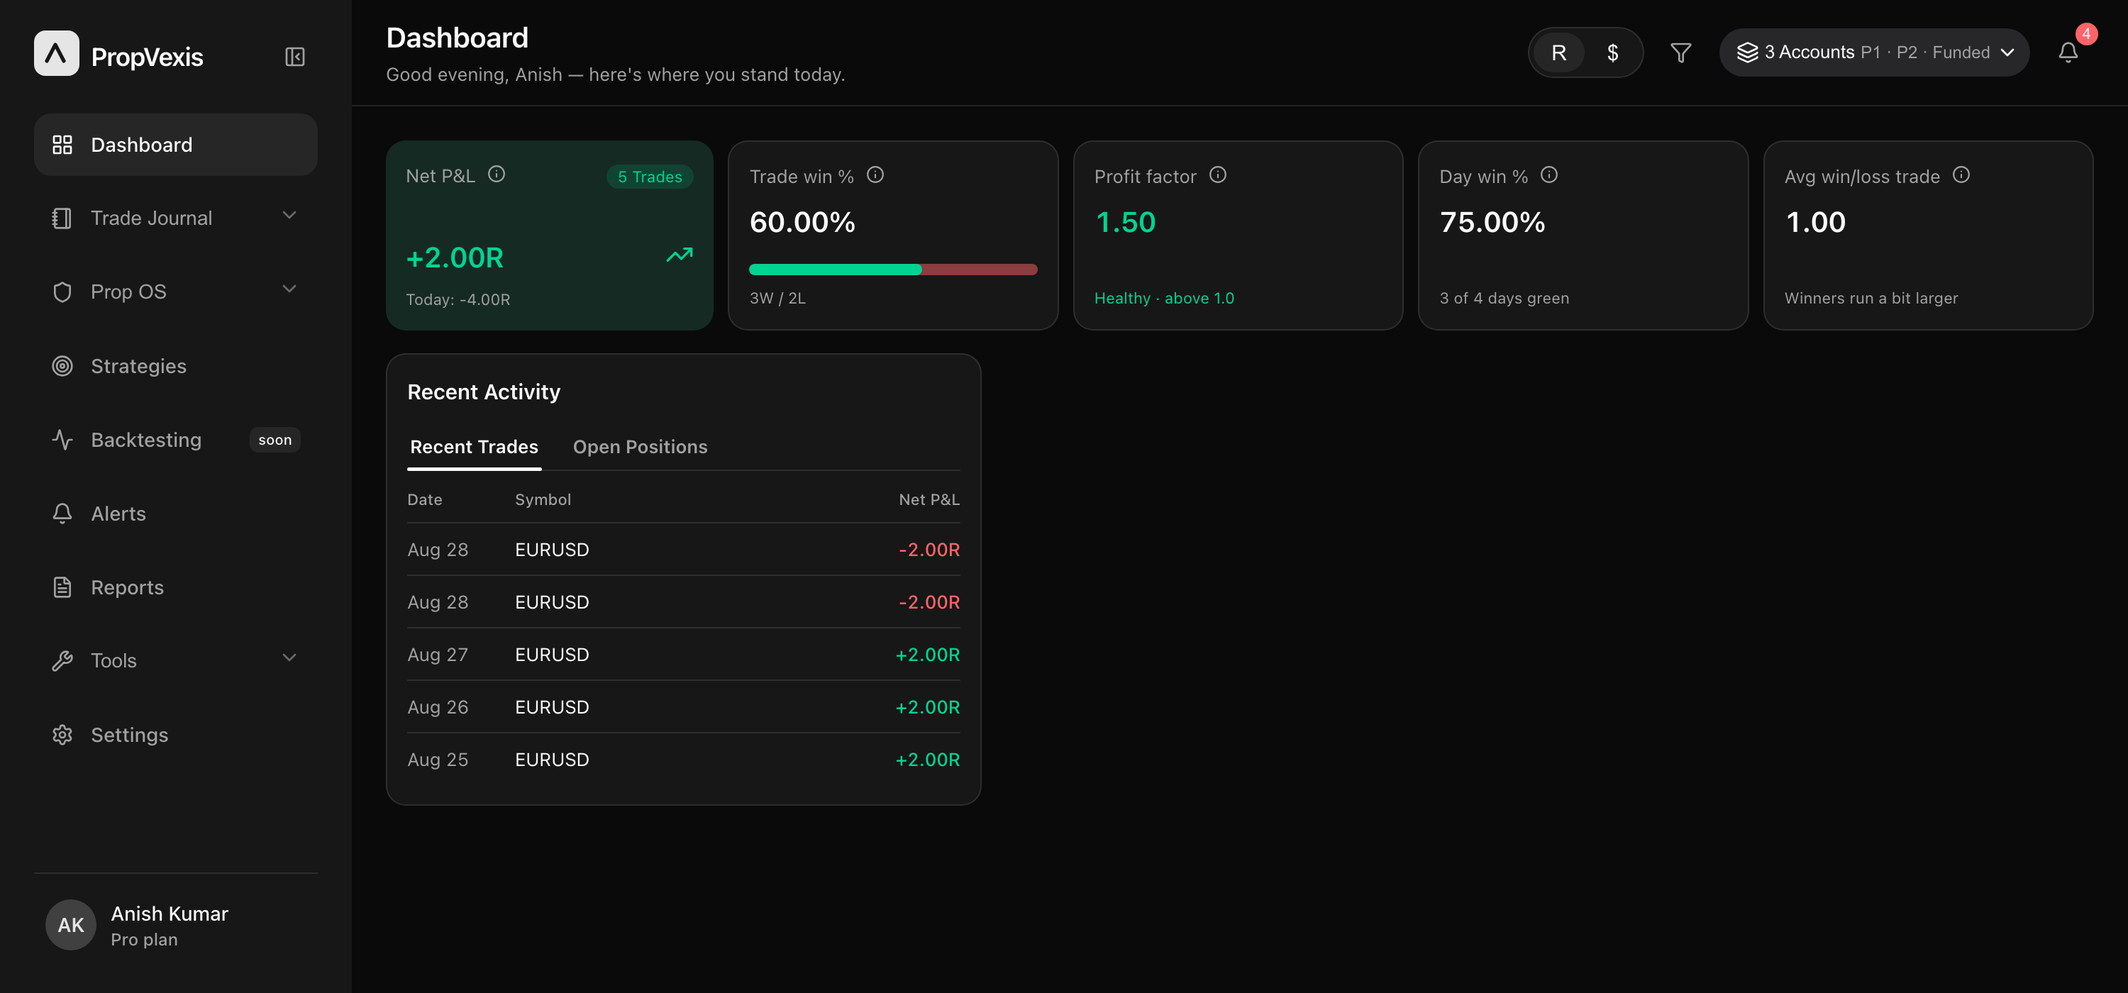
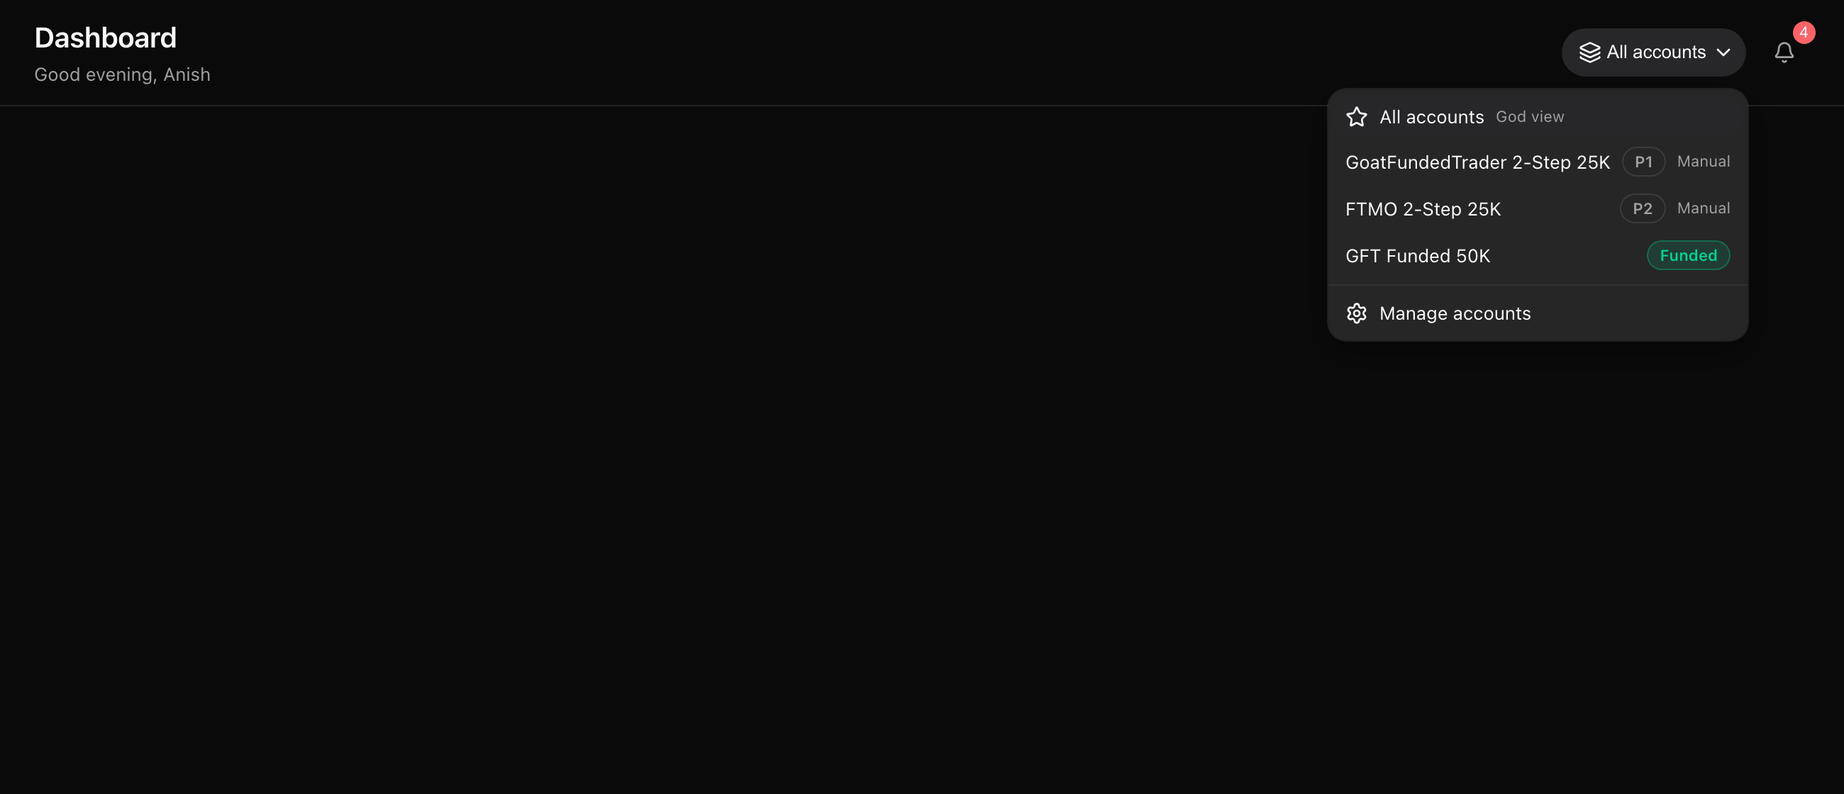
Top bar follow-ups: scope leads, richer menus, and the last of the blue
1. THE SCOPE SWITCHER LEADS THE CLUSTER. It is the only control in the bar that
changes what every figure on the page MEANS -- the unit toggle changes how they
are written and Filters narrows which rows feed them, but the scope decides whose
numbers these are. Reading order is left to right, so "whose account am I looking
at" should not be the fourth thing found.

2. THE SWITCHER'S ROWS SAY WHAT AN ACCOUNT IS. They read a label and then either
"Manual" or a five-digit login -- the login is the least useful thing about an
account you are choosing by NAME, and "Manual" describes how trades arrive rather
than what the account is. The phase is the badge now (P1 / P2 / Funded, green when
funded), on the shared Badge primitive so it matches Prop OS; the connection kind
stays as quiet text only for the manual case, where it explains why there is no
live balance.

I read @coss/combobox first, as the build order asks. It is a 15 KB searchable
single-select with chips, its own input and a scroll-area. This control is a
MULTI-select with god-view semantics, a single-select mode on two routes and a
pending-accounts footer, all tested -- adopting it would trade working behaviour
for a trigger we can simply draw. Recorded in the file so the next person does not
re-open the question.

3. THE FILTER PANEL OPENS AS ONE PANEL, NOT TWO. With no filters set it drew a
small panel holding a title and a single "+ Add filter" row, with the picker
[…]

diff --git a/frontend/src/features/filters/FilterBar.jsx b/frontend/src/features/filters/FilterBar.jsx
@@ -23,7 +23,7 @@ import FilterPanel from './FilterPanel.jsx';
 // may not originate visual values (pinned by topbar-overlays.test.js), so what stays
 // here is geometry the preset has no opinion about — a width cap, a truncation.
 import {
-  Button, CountBadge,
+  Badge, Button, CountBadge,
   Menu, MenuCheckboxItem, MenuContent, MenuGroupLabel, MenuItem,
   MenuSeparator, MenuTrigger, Popover, PopoverContent, PopoverTrigger,
   ToggleGroupExclusive, ToggleGroupItem,
@@ -158,10 +158,23 @@ function AccountSwitcher({ accounts = [], accountId, setAccountId, singleSelect 
             All accounts <span className="acct-opt-sub">God view</span>
           </MenuItem>
           {bound.map((a) => {
+            /* A ROW THAT SAYS WHAT THE ACCOUNT IS (2026-08-28). It used to read a label
+               and then either "Manual" or a five-digit login — the login is the least
+               useful thing about an account you are choosing BY NAME, and "Manual" is
+               how trades arrive, not what the account is.
+               What a trader picks by is the phase, so that is the badge; the connection
+               kind stays as quiet text for the manual case, where it does explain why
+               there is no live balance. Uses the Badge primitive rather than a fourth
+               hand-styled span, so it matches the phase badges in Prop OS. */
             const row = (
               <>
                 <span className="acct-opt-name">{acctLabel(a)}</span>
-                <span className="acct-opt-sub">{a.kind === 'manual' ? 'Manual' : a.mt5_login}</span>
+                {PHASE_TAG[a.phase] && (
+                  <Badge tone={a.phase === 'funded' ? 'profit' : 'neutral'}>
+                    {PHASE_TAG[a.phase]}
+                  </Badge>
+                )}
+                {a.kind === 'manual' && <span className="acct-opt-sub">Manual</span>}
               </>
             );
             return singleSelect ? (
@@ -320,12 +333,15 @@ export default function FilterBar({
    * and the same sentence over the Trade Log would be noise. `/` is the only route that
    * gets it.
    *
-   * Time of day is computed from the local clock rather than stored, and it is
-   * deliberately coarse — three bands, no "good night". A greeting that tells someone
-   * it is late is a judgement, and this app already has enough opinions about when they
-   * should stop trading. */
+   * JUST THE GREETING (owner, 2026-08-28). It ended "— here's where you stand today.",
+   * the frame's copy, which is a sentence explaining what a dashboard is to someone who
+   * opens it every morning. The half worth keeping is the half about THEM.
+   *
+   * Time of day comes from the local clock and is deliberately coarse — three bands, no
+   * "good night". A greeting that remarks on the hour is a judgement, and this app has
+   * enough opinions about when someone should stop trading. */
   const greeting = pathname === '/' && user?.name
-    ? `${timeOfDay()}, ${user.name.trim().split(/\s+/)[0]} — here's where you stand today.`
+    ? `${timeOfDay()}, ${user.name.trim().split(/\s+/)[0]}`
     : null;
 
   return (
@@ -360,17 +376,22 @@ export default function FilterBar({
         {/* The frame wraps the two segments in a bordered capsule rather than letting
             them float; `pill` on the group is what makes the container read as one
             control with two states instead of two adjacent buttons. */}
-        <ToggleGroupExclusive value={unit} onValueChange={setUnit} aria-label="Display unit" pill>
-          <ToggleGroupItem value="R" size="sm">R</ToggleGroupItem>
-          <ToggleGroupItem value="USD" size="sm">$</ToggleGroupItem>
-        </ToggleGroupExclusive>
-        <FiltersButton options={options} filters={filters} patchFilters={patchFilters} clearFilters={clearFilters} active={active} />
+        {/* THE SCOPE LEADS THE CLUSTER (2026-08-28, owner call). It is the only control
+            here that changes what every figure on the page MEANS: the unit toggle changes
+            how they are written, Filters narrows which rows feed them, but the account
+            scope decides whose numbers these are. Reading order is left to right, so
+            "whose account am I looking at" should not be the fourth thing found. */}
         <AccountSwitcher
           accounts={accounts}
           accountId={accountId}
           setAccountId={setAccountId}
           singleSelect={singleAccount}
         />
+        <ToggleGroupExclusive value={unit} onValueChange={setUnit} aria-label="Display unit" pill>
+          <ToggleGroupItem value="R" size="sm">R</ToggleGroupItem>
+          <ToggleGroupItem value="USD" size="sm">$</ToggleGroupItem>
+        </ToggleGroupExclusive>
+        <FiltersButton options={options} filters={filters} patchFilters={patchFilters} clearFilters={clearFilters} active={active} />
         <NotificationBell inline notifications={notifications} unread={unread} onMarkAllRead={onMarkAllRead} />
         {/* NO AVATAR MENU HERE (2026-08-28, owner call). The rail's footer already
             carries the identity row — name, plan and a link to the profile — so a second

diff --git a/frontend/src/features/alerts/Notifications.jsx b/frontend/src/features/alerts/Notifications.jsx
@@ -1,12 +1,15 @@
 import React from 'react';
-import { Bell } from 'lucide-react';
+import { AlertCircle, AlertTriangle, Bell, Sparkles } from 'lucide-react';
 // PHASE 4b — the bell's feed is a Popover on Base UI.
 // PHASE 4c — the BELL is a generated Button and `.notif-bell` / `.notif-badge` are
 // deleted. 4b moved behaviour only, and legacy CSS is unlayered, so the trigger kept
 // painting itself the old way no matter what the preset emitted.
 // `.notif-panel` is untouched: the feed's own appearance is a separate module and the
 // migration plan's rule is wholesale-or-not-at-all per module.
-import { Button, CountBadge, Popover, PopoverContent, PopoverTrigger } from '@/components/primitives';
+import { Link } from 'react-router-dom';
+import {
+  Button, CountBadge, EmptyState, Popover, PopoverContent, PopoverTrigger,
+} from '@/components/primitives';
 
 // In-app alert UI: a header bell with an unread badge + a dropdown feed, and a
 // transient toast stack for alerts that arrive live over the socket. Severity
@@ -27,10 +30,26 @@ export function timeAgo(iso) {
 // interaction rather than arrow-keying between alerts. The primitive supplies the
 // Escape, the focus return and the aria-expanded the hand-rolled version never had —
 // the bell's own aria-label, which carries the unread count, is unchanged.
-export function NotificationBell({ notifications = [], unread = 0, onMarkAllRead, inline = false }) {
+/* One glyph per severity — the same three the dashboard's Brief uses, so a breach looks
+ * like a breach in both places. Kept beside `sevClass` rather than imported from the
+ * Dashboard, because the direction of dependency matters: alerts are the source of this
+ * vocabulary and the Brief is a second surface for it, not the other way round. */
+const SEV_ICON = { crit: AlertCircle, warn: AlertTriangle, info: Sparkles };
+
+function SevGlyph({ severity }) {
+  const Icon = SEV_ICON[sevClass(severity)] || Sparkles;
+  return <Icon aria-hidden="true" />;
+}
+
+/* `defaultOpen` exists for the gitignored visual harness (frontend/.preview.jsx), which
+ * is the only way to SEE this panel — there is no jsdom here, and the alternative is
+ * screenshotting a click. It defaults false, so nothing in the app opens on mount. */
+export function NotificationBell({
+  notifications = [], unread = 0, onMarkAllRead, inline = false, defaultOpen = false,
+}) {
   return (
     <div className={`notif ${inline ? 'notif-inline' : ''}`}>
-      <Popover>
+      <Popover defaultOpen={defaultOpen}>
         {/* `variant="chrome"` at `size="icon-sm"` is the whole of what `.notif-bell`
             and its `.notif-inline` override used to draw between them. `tone="alert"`
             is why the pill is red: an unread count reports a condition rather than a
@@ -58,10 +77,19 @@ export function NotificationBell({ notifications = [], unread = 0, onMarkAllRead
           </div>
           <div className="notif-list">
             {notifications.length === 0 ? (
-              <div className="notif-empty">You're all caught up.</div>
+              <EmptyState
+                title="You're all caught up"
+                description="Breaches, drawdown warnings and milestones land here as they happen."
+              />
             ) : notifications.map((n) => (
               <div key={n.id} className={`notif-item ${sevClass(n.severity)} ${n.read_at ? '' : 'unread'}`}>
-                <span className="notif-dot" aria-hidden="true" />
+                {/* THE SAME GLYPH THE BRIEF USES for this severity, not a bare dot.
+                    A triangle for a warning and a filled circle for a breach are
+                    recognisable before they are read, they survive a greyscale screen,
+                    and — the reason it matters here — a trader who has just seen
+                    "challenge breached" in Today's Brief meets the identical mark in
+                    this panel rather than a colour they have to re-learn. */}
+                <span className="notif-glyph" aria-hidden="true"><SevGlyph severity={n.severity} /></span>
                 <div className="notif-body">
                   <div className="notif-title">{n.title}</div>
                   {n.body && <div className="notif-text">{n.body}</div>}
@@ -69,6 +97,12 @@ export function NotificationBell({ notifications = [], unread = 0, onMarkAllRead
                 </div>
               </div>
             ))}
+          </div>
+          {/* A WAY OUT OF A PANEL THAT ONLY EVER SHOWS THE LATEST FEW. The feed is
+              capped, so without this the older alerts were unreachable from the one
+              place a trader goes looking for them. */}
+          <div className="notif-foot">
+            <Link to="/alerts">View all alerts</Link>
           </div>
         </PopoverContent>
       </Popover>

diff --git a/frontend/src/styles/legacy/app.css b/frontend/src/styles/legacy/app.css
@@ -2382,12 +2382,40 @@ label.full { margin-bottom: 16px; }
    fixed head — `overflow: hidden` here is what clips the rows to the rounded corners. */
 .notif-panel { width: 340px; max-height: 70vh; overflow: hidden; display: flex; flex-direction: column; }
 .notif-head { display: flex; justify-content: space-between; align-items: center; padding: 12px 16px; border-bottom: 1px solid var(--line); font-weight: 400; }
-.notif-markall { background: transparent; border: none; color: var(--status-info); font-size: 12px; cursor: pointer; }
+/* NEUTRAL, NOT BLUE (2026-08-28). It drew in --status-info and was the last blue left
+   in the chrome after the chart line and the tab indicator went neutral — one saturated
+   link in a panel of red, amber and green, where those three all MEAN something and it
+   does not. It is an action on the panel, so it reads like one: muted until hovered. */
+.notif-markall {
+  background: transparent; border: none; color: var(--text-2); font-size: 12px;
+  cursor: pointer; border-radius: var(--r-md); padding: 2px 6px;
+  transition: color var(--dur-fast) var(--ease);
+}
+.notif-markall:hover { color: var(--text); }
 .notif-list { overflow-y: auto; }
 .notif-empty { padding: 32px 16px; text-align: center; color: var(--muted); font-size: 13px; }
 .notif-item { display: flex; gap: 12px; padding: 12px 16px; border-bottom: 1px solid var(--line); }
 .notif-item.unread { background: var(--surface-hover); }
 .notif-dot { flex: none; width: 8px; height: 8px; border-radius: 50%; margin-top: 8px; background: var(--muted); }
+
+/* The severity glyph, replacing `.notif-dot` (2026-08-28). Sized and coloured like the
+   dot it replaces — the hue still comes from the row's `.crit` / `.warn` / `.info`
+   class — but it is a SHAPE now, matching the marks Today's Brief uses for the same
+   three severities. Colour was the only encoding before. */
+.notif-glyph { display: inline-flex; flex: none; margin-top: 2px; }
+.notif-glyph svg { width: 15px; height: 15px; }
+.notif-item.crit .notif-glyph { color: var(--loss); }
+.notif-item.warn .notif-glyph { color: var(--warning); }
+.notif-item.info .notif-glyph { color: var(--profit); }
+
+/* The panel's footer link out to the full Alerts page. The feed here is capped, so
+   without it the older alerts were unreachable from the place people look for them. */
+.notif-foot {
+  border-top: 1px solid var(--line); padding: 10px 14px;
+  display: flex; justify-content: center;
+}
+.notif-foot a { color: var(--text-2); font-size: 12px; text-decoration: none; }
+.notif-foot a:hover { color: var(--text); }
 .notif-item.warn .notif-dot { background: var(--status-warn); }
 .notif-item.crit .notif-dot { background: var(--status-bad); }
 .notif-item.info .notif-dot { background: var(--status-info); }
@@ -3203,6 +3231,11 @@ label.full { margin-bottom: 16px; }
   background: var(--surface-2); border: 1px solid var(--line-strong);
   border-radius: var(--r-2xl); box-shadow: var(--sh-2);
 }
+/* The empty state of the stack: the picker is the only panel, so the wrapper keeps its
+   place in the cascade's positioning but draws nothing of its own. See the note in
+   FilterPanel.jsx — two panels, one of them empty, is what this replaces. */
+.fp--bare { background: none; border: none; box-shadow: none; min-height: 0; }
+.fp-stack--bare .fp-cascade { margin-top: 0; }
 .fp-head {
   display: flex; align-items: center; justify-content: space-between; gap: var(--s-2);
   padding: 10px 12px; border-bottom: 1px solid var(--line);
@@ -3210,9 +3243,14 @@ label.full { margin-bottom: 16px; }
 .fp-head-title { font-size: 12px; font-weight: var(--fw-semibold); color: var(--text); }
 .fp-head-clear {
   background: transparent; border: none; padding: 0; cursor: pointer;
-  font-size: 11px; color: var(--accent-on-surface);
+  /* NEUTRAL (2026-08-28), with the rest of the chrome. It drew in --accent-on-surface,
+     which after the chart line, the tab indicator and "Mark all read" went neutral was
+     one of the last blues in the app. Blue still means brand and link; a destructive-ish
+     action inside a panel is not either. */
+  font-size: 11px; color: var(--text-2);
+  transition: color var(--dur-fast) var(--ease);
 }
-.fp-head-clear:hover { text-decoration: underline; }
+.fp-head-clear:hover { color: var(--text); text-decoration: underline; }
 
 /* Active filters. Each chip is two buttons: the body re-opens that filter's value
    column (editing beats remove-and-re-add), the ✕ removes only that one. */

diff --git a/frontend/src/features/filters/FilterPanel.jsx b/frontend/src/features/filters/FilterPanel.jsx
@@ -282,6 +282,10 @@ export default function FilterPanel({ options = {}, filters, patchFilters, clear
   // still shows where you are in the list.
   const [adding, setAdding] = useState(active === 0);
   const [pickedId, setPickedId] = useState(null);
+  /* Nothing to show yet AND the picker is open — the outer panel would be a title over
+   * a button that is already pressed. Recomputed rather than stored, so adding the first
+   * filter restores the panel in the same render that adds the chip. */
+  const bare = active === 0 && adding && !pickedId;
   const def = pickedId ? FILTER_BY_ID[pickedId] : null;
   const chips = activeDefs(filters);
 
@@ -398,8 +402,25 @@ export default function FilterPanel({ options = {}, filters, patchFilters, clear
     // The panel sits under the button; the cascade sits under the PANEL, opening
     // right-to-left (see .fp-cascade) because the button is at the right edge of
     // the top bar — so every column stays on screen without measuring anything.
-    <div className="fp-stack">
-      <div className="fp">
+    /* WHEN THERE ARE NO FILTERS, THERE IS ONE PANEL (2026-08-28).
+     *
+     * The stack used to open as two: a small panel holding a "Filters" title and a
+     * single "+ Add filter" row, with the picker floating beneath it under its own
+     * "Add filter" heading. Two panels, two headings, and the top one had nothing in it
+     * — the click that opened the whole thing had already answered the question it was
+     * asking. The picker IS the panel until a filter exists to list.
+     *
+     * `bare` is the whole change: the outer panel keeps its structure so the chip list
+     * and Clear all appear the moment there is something to show, and loses only its
+     * surface and its head while empty. That is a conditional class rather than a second
+     * render path, which is what keeps the cascade's positioning identical in both. */
+    <div className={`fp-stack ${bare ? 'fp-stack--bare' : ''}`}>
+      <div className={`fp ${bare ? 'fp--bare' : ''}`}>
+        {/* CONDITIONALLY RENDERED, NOT `hidden`. The attribute's `display: none` comes
+            from the UA stylesheet, which loses to ANY author rule — and `.fp-head` sets
+            `display: flex`. So `hidden` here was inert: the element stayed on screen and
+            only stopped being announced, which is the worst of both. */}
+        {!bare && (
         <div className="fp-head">
           <span className="fp-head-title">Filters</span>
           {active > 0 && (
@@ -408,6 +429,7 @@ export default function FilterPanel({ options = {}, filters, patchFilters, clear
             </button>
           )}
         </div>
+        )}
 
         {chips.length > 0 && (
           <div className="fp-chips">
@@ -436,6 +458,7 @@ export default function FilterPanel({ options = {}, filters, patchFilters, clear
           </div>
         )}
 
+        {!bare && (
         <button
           type="button"
           className={`fp-add ${adding && !pickedId ? 'is-on' : ''}`}
@@ -445,6 +468,7 @@ export default function FilterPanel({ options = {}, filters, patchFilters, clear
           <Plus />
           <span>Add filter</span>
         </button>
+        )}
 
         {chips.length === 0 && !adding && (
           <p className="fp-blank">No filters — every trade in scope is included.</p>

diff --git a/test/utility-collisions.test.js b/test/utility-collisions.test.js
@@ -340,3 +340,36 @@ test('the stylesheet parses — comments close and braces balance', () => {
     assert.equal(depth, 0, `${name}: ${depth} unclosed block(s)`);
   }
 });
+
+test('no rule is nested inside another rule\'s body', () => {
+  /* THE SECOND HALF OF THE SAME LESSON, and it needed its own check because the first
+   * one passed while the file was broken.
+   *
+   * The comment-and-brace test above catches an insertion that swallows a delimiter.
+   * It does NOT catch a complete, well-formed rule dropped INSIDE another rule's body —
+   * braces still balance, comments still close, and the stylesheet is quietly invalid.
+   * That happened twice in one session, both times from inserting after a matched line
+   * without noticing the line was the first of a multi-line rule.
+   *
+   * At-rule blocks are exempt: `@media`, `@supports` and `@layer` exist to CONTAIN
+   * selectors, and this file is full of legitimate ones. What is never intended here is
+   * a selector inside a DECLARATION block. (CSS nesting is valid modern syntax; this
+   * stylesheet predates it and does not use it, so its appearance means an accident.) */
+  for (const [name, css] of [['legacy/app.css', legacyCss], ['tokens.css', tokensCss], ['bridge.css', bridgeCss]]) {
+    const stripped = css.replace(/\/\*[\s\S]*?\*\//g, '');
+    const stack = [];
+    const offenders = [];
+    stripped.split('\n').forEach((line, i) => {
+      const t = line.trim();
+      if (stack[stack.length - 1] === 'decl' && /^[.#][A-Za-z0-9_-][^;{}]*\{/.test(t)) {
+        offenders.push(`${name}:${i + 1}: ${t.slice(0, 60)}`);
+      }
+      for (const ch of line) {
+        if (ch === '{') stack.push(t.startsWith('@') ? 'at' : 'decl');
+        else if (ch === '}') stack.pop();
+      }
+    });
+    assert.deepEqual(offenders, [],
+      `a rule is nested inside another rule's body — the stylesheet is invalid there:\n${offenders.join('\n')}`);
+  }
+});

diff --git a/test/filter-panel.test.js b/test/filter-panel.test.js
@@ -410,8 +410,20 @@ test('the button, its position and the top bar are untouched', () => {
   assert.ok(!/<span>Filters<\/span>/.test(bar), 'the visible label is gone');
   assert.match(bar, /\{active > 0 && <CountBadge>\{active\}<\/CountBadge>\}/, 'still a count badge');
   // Order in the right-hand cluster: after the unit switch, before the account switcher.
-  assert.ok(bar.indexOf('<FiltersButton') > bar.indexOf('<ToggleGroupExclusive'));
-  assert.ok(bar.indexOf('<FiltersButton') < bar.indexOf('<AccountSwitcher'));
+  /* THE CLUSTER REORDERED ON 2026-08-28 (owner call) and the ORDER is the assertion,
+   * not the old sequence. The scope switcher leads now: it is the only control in the
+   * bar that changes what every figure on the page MEANS — the unit toggle changes how
+   * they are written and Filters narrows which rows feed them, but the scope decides
+   * whose numbers these are, and reading order is left to right.
+   *
+   * Filters still sits between the two view controls and the alert feed, which is what
+   * this line was protecting: it is a view control, not chrome. */
+  assert.ok(bar.indexOf('<AccountSwitcher') < bar.indexOf('<ToggleGroupExclusive'),
+    'the account scope leads the cluster');
+  assert.ok(bar.indexOf('<FiltersButton') > bar.indexOf('<ToggleGroupExclusive'),
+    'Filters stays with the view controls');
+  assert.ok(bar.indexOf('<FiltersButton') < bar.indexOf('<NotificationBell'),
+    'and ahead of the alert feed');
   assert.match(css, /\.tb-filters \{ position: relative; \}/);
 });
 
